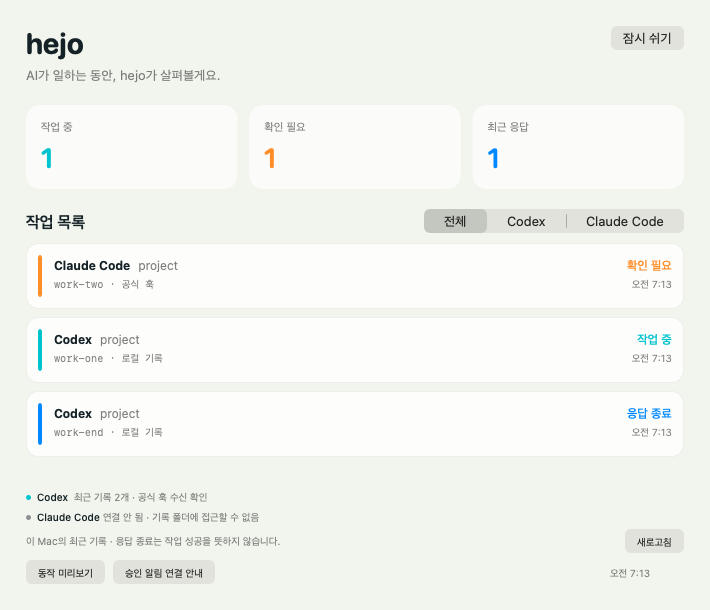
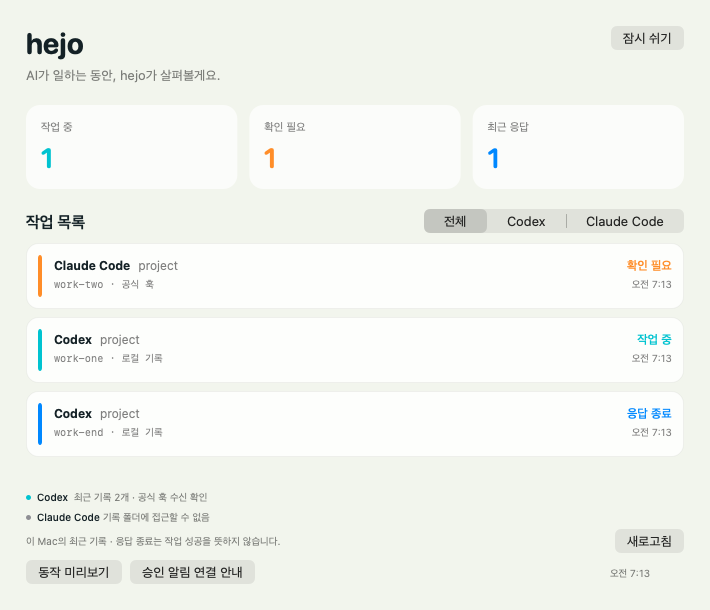
Match dashboard connection details and footer button sizing

Changed region(s): [[0.062, 0.9033, 0.3408, 0.9656], [0.1549, 0.841, 0.3718, 0.8721], [0.8676, 0.8721, 0.9606, 0.9033]]

diff --git a/app/Sources/Dashboard.swift b/app/Sources/Dashboard.swift
@@ -74,9 +74,9 @@ import AppKit
         scroll.frame = CGRect(x: 26, y: model.warning == nil ? 243 : 267, width: bounds.width-52, height: max(50, bounds.height-footer-(model.warning == nil ? 243 : 267)))
         rows.frame = CGRect(x: 0, y: 0, width: scroll.contentSize.width, height: max(scroll.contentSize.height, CGFloat(taskButtons.count)*74))
         for (i, button) in taskButtons.enumerated() { button.frame = CGRect(x: 0, y: CGFloat(i)*74, width: rows.bounds.width, height: 66) }
-        refreshButton.font = .systemFont(ofSize: 10); refreshButton.sizeToFit(); refreshButton.frame.origin = CGPoint(x: bounds.width-26-refreshButton.frame.width, y: bounds.height-81)
-        previewButton.font = .systemFont(ofSize: 10); previewButton.sizeToFit(); previewButton.frame.origin = CGPoint(x: 26, y: bounds.height-50)
-        hooksButton.font = .systemFont(ofSize: 10); hooksButton.sizeToFit(); hooksButton.frame.origin = CGPoint(x: previewButton.frame.maxX+8, y: bounds.height-50)
+        refreshButton.font = .systemFont(ofSize: 13); refreshButton.sizeToFit(); refreshButton.frame.origin = CGPoint(x: bounds.width-26-refreshButton.frame.width, y: bounds.height-81)
+        previewButton.font = .systemFont(ofSize: 13); previewButton.sizeToFit(); previewButton.frame.origin = CGPoint(x: 26, y: bounds.height-50)
+        hooksButton.font = .systemFont(ofSize: 13); hooksButton.sizeToFit(); hooksButton.frame.origin = CGPoint(x: previewButton.frame.maxX+8, y: bounds.height-50)
     }
     override func draw(_ dirtyRect: NSRect) {
         NSColor(srgbRed: 0.95, green: 0.96, blue: 0.93, alpha: 1).setFill(); bounds.fill()
@@ -96,7 +96,7 @@ import AppKit
             let dot = CGRect(x: 26, y: y+4, width: 5, height: 5)
             (connection.available ? NSColor.systemTeal : .systemGray).setFill(); NSBezierPath(ovalIn: dot).fill()
             DashboardInk.text(connection.provider.name, at: CGPoint(x: 37, y: y), size: 10, weight: .medium)
-            DashboardInk.text((connection.available ? "" : "연결 안 됨 · ")+connection.detail, at: CGPoint(x: connection.provider == .codex ? 74 : 103, y: y), size: 10, color: .secondaryLabelColor)
+            DashboardInk.text(connection.detail, at: CGPoint(x: connection.provider == .codex ? 74 : 103, y: y), size: 10, color: .secondaryLabelColor)
             y += 20
         }
         DashboardInk.text("이 Mac의 최근 기록 · 응답 종료는 작업 성공을 뜻하지 않습니다.", at: CGPoint(x: 26, y: bounds.height-75), size: 10, color: .secondaryLabelColor)

diff --git a/app/Tests/DashboardTests.swift b/app/Tests/DashboardTests.swift
@@ -34,6 +34,7 @@ import AppKit
     view.layoutSubtreeIfNeeded();try check(view.taskButtons.count == 3,"AT98 task rows")
     try check(view.scroll.frame.minY == 243 && view.taskButtons.map{$0.frame.height} == [66,66,66] && view.taskButtons.map{$0.frame.minY} == [0,74,148],"AT98 original dashboard row geometry")
     try check(view.filter.frame == CGRect(x:424,y:209,width:260,height:24),"AT98 source filter geometry at 710pt")
+    try check([view.refreshButton,view.previewButton,view.hooksButton].map{$0.font?.pointSize} == [13,13,13] && [view.refreshButton,view.previewButton,view.hooksButton].map{$0.frame.size} == [CGSize(width:69,height:24),CGSize(width:96,height:24),CGSize(width:125,height:24)],"AT98 source bordered footer buttons measure 13pt and 24pt high")
     let stableRow=view.taskButtons[0];model.onChange?();try check(view.taskButtons[0] === stableRow,"AT98 periodic refresh preserves native control identity")
     var selected:String?,hooks=0,refresh=0,preview=0,paused=0
     model.onSelect={selected=$0;model.selectedID=$0;model.onChange?()};model.onHooks={hooks+=1};model.onRefresh={refresh+=1};model.onPreview={preview+=1};model.onPause={paused+=1}

diff --git a/app/Tests/WorkMonitorTests.swift b/app/Tests/WorkMonitorTests.swift
@@ -63,6 +63,7 @@ import AppKit
         let snapshot = monitor.poll(now: now)
         try check(snapshot.tasks.first?.state == .responded, "out of order event rejected")
         try check(snapshot.connections.allSatisfy { !$0.available }, "missing connection not zero success")
+        try check(snapshot.connections.allSatisfy{$0.detail == "기록 폴더에 접근할 수 없음"},"AT98 unavailable detail uses the original Monitor words only")
         // A build being put through its UI checks, like the conversation share, is not a pet in the installed one's way
         // A hook's event file is taken away a day after its last change
         let events = root.appendingPathComponent("hook-events-\(UUID().uuidString)")

diff --git a/docs/changes/HEJO-FOUNDATION-20261114/impl-report.md b/docs/changes/HEJO-FOUNDATION-20261114/impl-report.md
@@ -2057,3 +2057,17 @@ TASK-46 최종 확인: 마지막 입력 199개를 동결한 전체 검사와 집
 - 구현자 인계 상태: 배정 코드·자체 시험은 수준 2 통과, 필요한 수준 3의 실제 설정 연결/해제·실제 작업 창 결합은 미실행. 독립 검토·운영 수락이 남는다. 소유 파일만 commit-only하며 최종 커밋·깨끗한 작업 트리·고정 public·입력/그림 대조는 `.build/task47/final-verification.json`을 따른다.
 
 - 정적 진단 처분: 새 monitor 캡처의 Swift 6 Sendable 경고는 현재 Swift 5 빌드에서 관측됐다. 가변 모니터는 전용 직렬 큐에서만 poll하고 main의 monitorBusy가 중복을 막는다. UI에는 값 스냅샷만 넘기는 의도된 소유 경계로 분류했고 경고를 억제하지 않았다. 나머지 기존 actor/미사용 변수 진단은 범위 밖 부채로 남겼다.
+
+
+## 보완 60 구현·자체 시험: N47-01·02
+
+- 착수 기준 `41644e8b50e1968a78e0f89a7d87b9b42a21c2e8`. 기존 TASK-47 기록은 당시 이력으로 보존한다. 계획 담당이 정정한 AT-98에 따라 Dashboard의 ‘연결 안 됨 · ’ 앞붙임을 제거하고 Monitor의 detail 원문만 그린다. 사용 가능 여부의 teal/gray 점은 그대로다. 감시·훅·상태·저장·문·허브 계약 변경은 없다.
+- 아래 세 단추는 AppKit rounded 기본 13pt로 맞췄다. 원본 Dashboard의 같은 SwiftUI 구성을 별도 실행한 결과 새로고침 69×24, 동작 미리보기 96×24, 승인 알림 연결 안내 125×24pt이며 제품과 같다. AT-98에는 글꼴·세 크기 실측 단언을, Monitor 시험에는 ‘기록 폴더에 접근할 수 없음’ 원문 단언을 추가했다. 실측 자료는 evidence/HEJO-FOUNDATION/task47-footer-metrics.json이다.
+- 집중 컴파일·실행은 `.build/n47/focused.py` 종료 0, AT-HF-98 MONITOR/APP PASS·APP_TEST_OK다. 원본 단추 분리 실측 compile/run은 각각 종료 0이며 `.build/n47/button-reference.log`에 있다. 이후 검증과 최종 커밋은 아래 최종 기록과 `.build/n47/final-verification.json`을 따른다.
+- 실물 훅 연결/해제·실제 작업 창·물리 입력기·VoiceOver는 미실행이며 필요/도달 증거 수준은 3/2다. 실제 CLI 설정은 내용 접근 없이 lstat 메타데이터만, 실제 다운로드는 이름만 대조한다. 실제 내용 SHA 불변을 주장하지 않는다. 운영 반영은 보완 60의 계획 담당+사장 점검에 남긴다.
+
+### 보완 60 최종 검증
+
+- `.build/n47/frozen.py` 종료 0: foundation9_runner hejo 245 passed(test_install·허브 포함), 앱 전체·기존 통신·훅 9개 통과. 집중 3회 모두 종료 0이며 실행 중 입력 214개 불변이다. 실제 CLI 설정 lstat 메타데이터·실제 다운로드 이름 불변 단언도 통과했다. 로그는 `.build/n47/final-foundation.log`·`frozen-progress.json`·`app-focused-01.log`~`03.log`다.
+- `.build/n47/post_checks.py` 종료 0: 최종 제품·원본의 일반/고정/빈 목록 캡처 여섯 개를 다시 만들고 직접 비교했다. 원본 세 그림은 이전과 바이트가 같고 제품 세 그림은 두 지적을 반영한다. 단추 글자 크기·높이는 원본 분리 실측과 같으며 ‘기록 폴더에 접근할 수 없음’ 앞에 새 낱말이 없다. 기존 AppKit 기본 단추 바탕·선택 구획의 플랫폼 차이는 그대로 문서화했다. PNG 유효성·원본 불변·codesign deep/strict 통과, 운영 앱 전체·픽셀 동일 비교를 주장하지 않는다.
+- `.build/n47/finalize.py`의 checks·commit·verify가 정적 검사와 소유 파일 commit-only·커밋/입력/그림 대조를 맡는다. 실제 결과와 전체 커밋은 `.build/n47/final-checks.json`·`commit-result.json`·`final-verification.json`을 따른다. public 후보 고정, 운영 홈·앱 사본·공용 릴리스·운영 허브·본체/ddots·원격·실제 발송·비밀 파일 접근은 없다. 계획 담당의 N47-01·02 검토와 보완 60 수준 3 실물 수락은 남긴다.

diff --git a/docs/changes/HEJO-FOUNDATION-20261114/copy-review.md b/docs/changes/HEJO-FOUNDATION-20261114/copy-review.md
@@ -767,3 +767,12 @@ AT-90의 “따라 읽은 스트림이 완료 후에도 펼침” fixture는 여
 - 원본 Dashboard의 선택 핀은 프로젝트 글자 바로 뒤의 teal 10pt 그림이다. AppKit에서도 그 자리에 두고, 펫 이름을 바꿀 때 열린 목록 소개·창 제목을 갱신한다. 원본의 Hermes 직접 연결 상세 줄은 이식하지 않는다(hejo 연결 상태는 기존 서버 연결 화면이 소유). 작업/세션 연결 줄 두 개는 원본대로 유지한다. 펼친 홈 행동이 오류 작업 동작을 덮지 않는 회귀도 포함한다.
 
 - 최종 제품·원본의 일반/고정/빈 목록 세 상태를 직접 비교했다. 자동 갱신 때 SwiftUI ForEach처럼 같은 작업의 native 단추 객체를 유지해 포커스/누름이 끊기지 않는다. 원본 CoreTests 분리 68개, 제품 AT-98·전체 앱·훅 9개와 세 번 반복, 실패 보상 제거 돌연변이 검출 근거는 impl-report와 `.build/task47/`에 있다. 실제 CLI 설정 내용은 읽지 않았고 실물 수락은 남겼다.
+
+
+## 보완 60 — N47-01·02
+
+- 바뀐 계약: AT-98의 ‘연결 안 됨’은 계획 담당의 잘못된 문구로 정정됐다. 원본 Monitor.swift:46과 Dashboard.swift:85–87을 다시 읽었고, 제품의 앞붙임을 제거한다. 기존 TASK-47 독해/실행 기록은 당시 기록으로 보존한다. 가용 여부는 점의 teal/gray만으로 보이고 detail을 그대로 그린다.
+- Dashboard.swift:98–109의 아래 단추 구성과 font 상속을 다시 대조했다. 원본과 같은 SwiftUI 단추 구성을 별도 실행한 실측: 새로고침 69×24, 동작 미리보기 96×24, 승인 알림 연결 안내 125×24pt. AppKit 기본 rounded 단추에 13pt를 쓰면 세 크기가 모두 일치한다. AT-98 앱 시험에 독립 실측값 단언을 더한다.
+- 수정 범위는 Dashboard와 관련 앱 시험·보고·동일 상태 캡처뿐이다. 감시·훅·문·허브·기록장·로컬 저장 계약은 바꾸지 않는다.
+
+- 보완 뒤 일반/고정/빈 목록을 같은 상태로 재캡처해 직접 비교했다. detail 원문과 세 단추의 13pt·24pt 표시를 확인했고, 나머지 기본 제어 외관 차이는 기존 화면 문서대로다. 실행·서명·메타데이터 보호 결과는 impl-report의 보완 60 최종 검증과 `.build/n47/`에 있다.

diff --git a/evidence/HEJO-FOUNDATION/TASK-47.md b/evidence/HEJO-FOUNDATION/TASK-47.md
@@ -10,7 +10,7 @@
 | 고정한 작업 | [원본](task47-ddots-pinned.png) | [제품](task47-hejo-pinned.png) |
 | 작업 없음 | [원본](task47-ddots-empty.png) | [제품](task47-hejo-empty.png) |
 
-제목·소개·세 수·색·세션 줄·고정/거르기·안내·하단 동작을 비교한다. 710×610에서 검색 구획 y=209, 행 시작 y=243, 행 높이 66·행 간격 8이다. 서비스 선택은 AppKit 기본 NSSegmentedControl이므로 구획 내부 폭 분배가 원본 SwiftUI Picker와 다르며, 기본 단추의 바탕 농도·기준선과 접속 줄의 약 2pt 차이가 있다. 접근 실패 줄은 수락 기준의 ‘연결 안 됨’과 원본 상세를 함께 보인다. 본문·추론·사용량은 표시하거나 저장하지 않는다.
+제목·소개·세 수·색·세션 줄·고정/거르기·안내·하단 동작을 비교한다. 710×610에서 검색 구획 y=209, 행 시작 y=243, 행 높이 66·행 간격 8이다. 서비스 선택은 AppKit 기본 NSSegmentedControl이므로 구획 내부 폭 분배가 원본 SwiftUI Picker와 다르며, 기본 단추의 바탕 농도·기준선과 접속 줄의 약 2pt 차이가 있다. 보완 60 뒤 접근 실패 줄은 원본 ‘기록 폴더에 접근할 수 없음’만 보이며 사용 가능 여부는 teal/gray 점으로만 구분한다. 아래 단추의 글꼴은 13pt·높이 24pt이고 원본과 분리 실측한 폭은 새로고침 69pt·동작 미리보기 96pt·승인 알림 연결 안내 125pt다. 본문·추론·사용량은 표시하거나 저장하지 않는다.
 
 우선순위와 동작은 원본 CoreTests 분리 실행과 제품 시험에서 별도 검증한다. 원본 PetView는 승인 대기/오류 동작을 시선보다 우선한다. 화면 도구를 쓰는 작업은 가장 먼저 시작한 작업의 명확한 창을 바라본다. 승인 창 위치는 추정하지 않는다.
 
